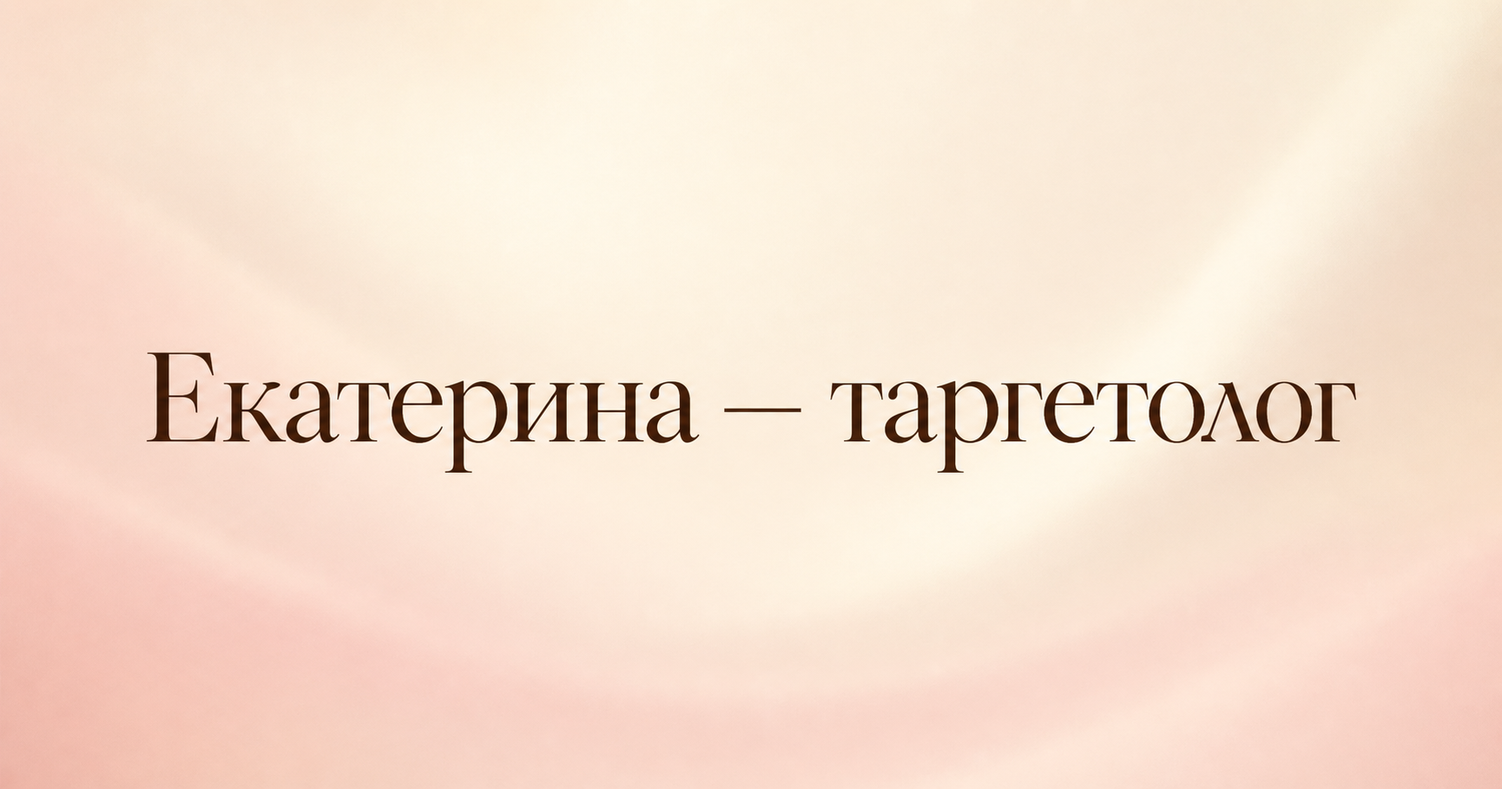
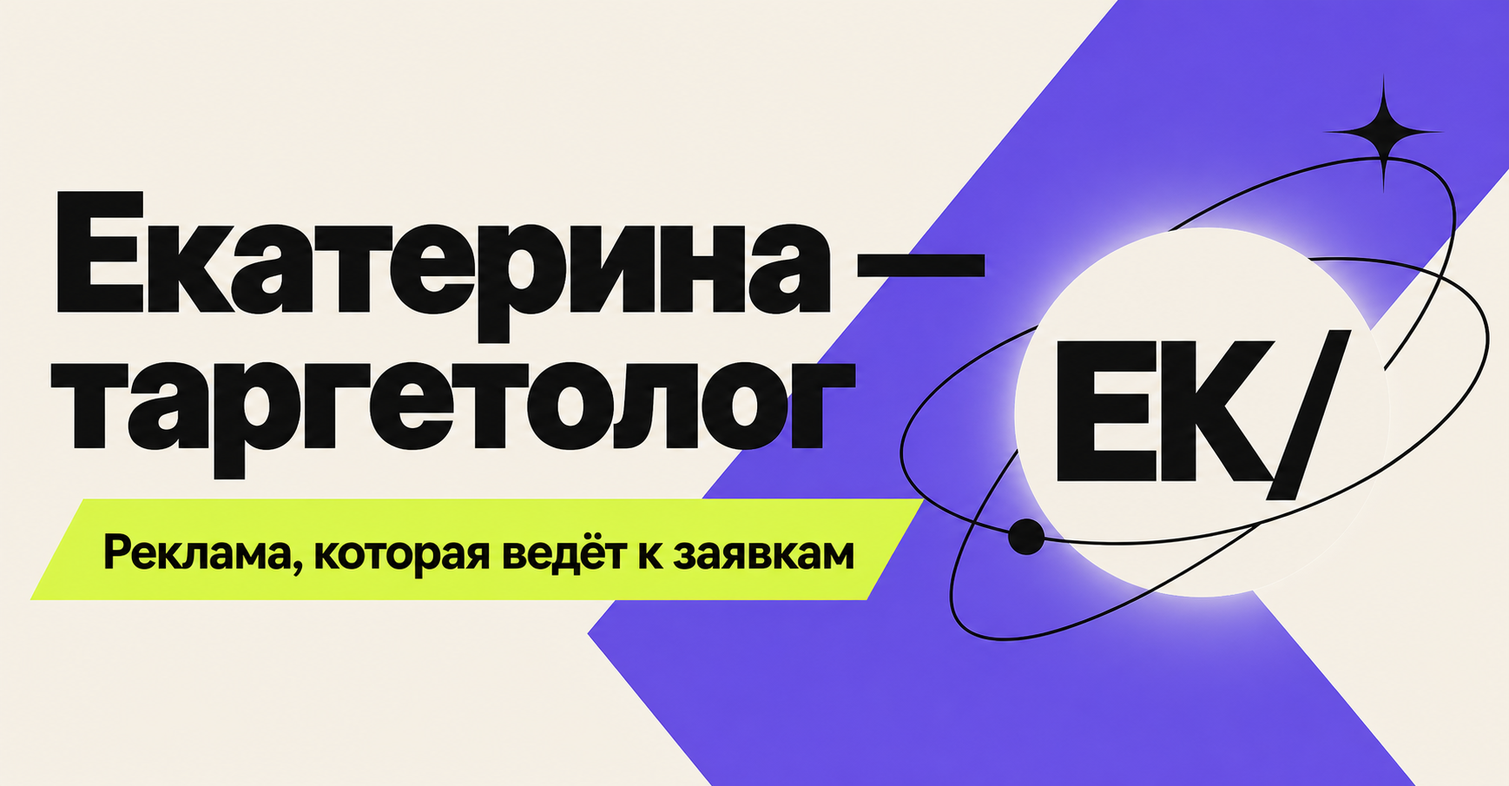
Design complete targetologist landing page

diff --git a/app/globals.css b/app/globals.css
@@ -1,55 +1,165 @@
 @import 'tailwindcss';
 
-:root {
-  color-scheme: light;
-  --background: #f7f1eb;
-  --foreground: #221c19;
+:root { --ink:#171718; --paper:#f4f0e8; --acid:#d8ff45; --violet:#6f42ff; --line:rgb(23 23 24 / 18%); }
+* { box-sizing:border-box; }
+html { scroll-behavior:smooth; }
+body { margin:0; background:var(--paper); color:var(--ink); font-family:Arial,Helvetica,sans-serif; }
+a { color:inherit; text-decoration:none; }
+.site-header { position:absolute; z-index:10; top:0; left:0; display:grid; width:100%; grid-template-columns:1fr auto 1fr; align-items:center; padding:1.4rem clamp(1.25rem,4vw,4.5rem); border-bottom:1px solid var(--line); }
+.brand { width:fit-content; font-size:1.25rem; font-weight:900; letter-spacing:-.08em; }
+.brand span { color:var(--violet); }
+.main-nav { display:flex; gap:2.1rem; }
+.main-nav a,.header-cta { font-size:.78rem; font-weight:700; }
+.main-nav a { transition:color .2s ease; }
+.main-nav a:hover { color:var(--violet); }
+.header-cta { justify-self:end; padding-bottom:.25rem; border-bottom:1px solid var(--ink); }
+.hero { position:relative; display:grid; min-height:100svh; grid-template-columns:minmax(0,1.45fr) minmax(19rem,.72fr); align-items:center; gap:clamp(2rem,6vw,7rem); overflow:hidden; padding:8.5rem clamp(1.25rem,4vw,4.5rem) 5rem; }
+.hero::before { position:absolute; inset:auto auto -18rem -14rem; width:34rem; height:34rem; border:1px solid var(--line); border-radius:50%; content:''; }
+.hero-copy { position:relative; z-index:1; }
+.eyebrow { display:flex; align-items:center; gap:.65rem; margin:0 0 2rem; font-size:.72rem; font-weight:800; letter-spacing:.13em; text-transform:uppercase; }
+.eyebrow span { width:.58rem; height:.58rem; border-radius:50%; background:var(--violet); box-shadow:0 0 0 4px rgb(111 66 255 / 12%); }
+h1 { margin:0; max-width:11ch; font-size:clamp(3.7rem,7.4vw,8.5rem); font-weight:800; line-height:.88; letter-spacing:-.075em; }
+.accent-line { position:relative; display:block; width:fit-content; margin-top:.12em; padding:0 .1em .06em .02em; background:var(--acid); transform:rotate(-1deg); }
+.spark { position:absolute; top:-.35em; right:-.55em; color:var(--violet); font-size:.38em; transform:rotate(16deg); }
+.hero-text { max-width:34rem; margin:2.2rem 0 0; font-size:clamp(1rem,1.35vw,1.22rem); line-height:1.55; }
+.hero-actions { display:flex; align-items:center; gap:1.8rem; margin-top:2.1rem; }
+.button { display:inline-flex; align-items:center; justify-content:center; gap:1.7rem; min-height:3.55rem; padding:0 1.4rem; font-size:.82rem; font-weight:800; }
+.button-primary { background:var(--ink); color:#fff; transition:transform .2s ease,background .2s ease; }
+.button-primary:hover { background:var(--violet); transform:translateY(-2px); }
+.button-primary span { font-size:1.2rem; }
+.text-link { padding-bottom:.3rem; border-bottom:1px solid var(--ink); font-size:.82rem; font-weight:800; }
+.hero-card { position:relative; align-self:stretch; min-height:35rem; margin:2.5rem 0; overflow:hidden; background:var(--violet); color:#fff; }
+.hero-card::after { position:absolute; inset:1rem; border:1px solid rgb(255 255 255 / 32%); content:''; }
+.card-orbit { position:absolute; top:40%; left:50%; width:min(25vw,20rem); aspect-ratio:1; transform:translate(-50%,-50%); }
+.orbit { position:absolute; inset:0; border:1px solid rgb(255 255 255 / 62%); border-radius:50%; }
+.orbit-one { transform:rotate(55deg) scaleX(.38); }
+.orbit-two { transform:rotate(-55deg) scaleX(.38); }
+.orbit-dot { position:absolute; top:8%; left:22%; width:.75rem; height:.75rem; border-radius:50%; background:var(--acid); }
+.orbit-mark { position:absolute; inset:50% auto auto 50%; font-size:3.7rem; font-weight:900; letter-spacing:-.1em; transform:translate(-50%,-50%); }
+.card-caption { position:absolute; z-index:2; right:2.25rem; bottom:2.35rem; left:2.25rem; }
+.card-caption p { margin:0 0 1rem; font-size:.62rem; font-weight:800; letter-spacing:.08em; text-transform:uppercase; }
+.card-caption p span { color:var(--acid); }
+.card-caption strong { font-size:clamp(1.5rem,2.5vw,2.4rem); line-height:1.04; letter-spacing:-.045em; }
+.hero-footnote { position:absolute; right:calc(clamp(1.25rem,4vw,4.5rem) + min(31vw,25rem) + clamp(2rem,6vw,7rem)); bottom:2.1rem; display:flex; align-items:flex-start; gap:.9rem; font-size:.67rem; font-weight:700; line-height:1.35; text-transform:uppercase; }
+.hero-footnote span { color:var(--violet); }
+.hero-footnote p { margin:0; }
+
+.section { padding:clamp(5.5rem,9vw,9rem) clamp(1.25rem,4vw,4.5rem); }
+.section-label { margin:0; font-size:.69rem; font-weight:900; letter-spacing:.14em; text-transform:uppercase; }
+.section-label::before { margin-right:.55rem; color:var(--violet); content:'●'; font-size:.72em; }
+.section-label.light::before { color:var(--acid); }
+.marquee { overflow:hidden; padding:1rem 0; border-block:1px solid var(--ink); background:var(--acid); font-size:.72rem; font-weight:900; letter-spacing:.08em; text-transform:uppercase; white-space:nowrap; }
+.marquee div { width:max-content; animation:marquee 20s linear infinite; }
+.marquee span { margin:0 1.6rem; color:var(--violet); }
+@keyframes marquee { to { transform:translateX(-25%); } }
+
+.section-heading { display:grid; grid-template-columns:.55fr 1.45fr .75fr; gap:3rem; align-items:end; margin-bottom:5rem; }
+.section-heading h2,.process h2,.principles h2,.fit h2,.faq h2,.contact h2 { margin:0; font-size:clamp(3rem,5.7vw,6.7rem); font-weight:800; line-height:.92; letter-spacing:-.065em; }
+.section-heading h2 em { color:var(--violet); font-family:Georgia,'Times New Roman',serif; font-weight:400; }
+.section-heading>p:last-child { max-width:24rem; margin:0; font-size:.95rem; line-height:1.55; }
+.service-list { border-top:1px solid var(--ink); }
+.service-row { display:grid; grid-template-columns:.25fr 1fr 1.15fr auto; gap:2rem; align-items:start; padding:2.25rem 0; border-bottom:1px solid var(--ink); }
+.service-number { padding-top:.3rem; color:var(--violet); font-size:.68rem; font-weight:900; }
+.service-row h3 { max-width:15ch; margin:0; font-size:clamp(1.5rem,2.3vw,2.45rem); line-height:1.02; letter-spacing:-.045em; }
+.service-detail p { max-width:33rem; margin:0 0 1.3rem; font-size:.92rem; line-height:1.55; }
+.tags { display:flex; flex-wrap:wrap; gap:.45rem; }
+.tags span { padding:.42rem .7rem; border:1px solid var(--line); border-radius:99px; font-size:.6rem; font-weight:800; text-transform:uppercase; }
+.service-arrow { font-size:1.5rem; transition:transform .2s ease,color .2s ease; }
+.service-row:hover .service-arrow { color:var(--violet); transform:translate(3px,-3px); }
+
+.process { display:grid; grid-template-columns:1.1fr .9fr; gap:5rem; background:var(--ink); color:#fff; }
+.process-intro>p:last-child { max-width:35rem; margin:2rem 0 0; color:rgb(255 255 255 / 68%); font-size:1rem; line-height:1.6; }
+.process h2 { margin-top:2.6rem; }
+.process h2 span { color:var(--acid); }
+.data-card { position:relative; align-self:start; min-height:27rem; padding:2rem; border:1px solid rgb(255 255 255 / 18%); background:#202022; }
+.data-top { display:flex; justify-content:space-between; align-items:start; }
+.data-top span { color:rgb(255 255 255 / 58%); font-size:.65rem; font-weight:800; text-transform:uppercase; }
+.data-top strong { color:var(--acid); font-size:2.5rem; letter-spacing:-.07em; }
+.chart { position:absolute; inset:7rem 2rem 3.8rem; display:flex; align-items:end; gap:clamp(.55rem,1.4vw,1.25rem); border-bottom:1px solid rgb(255 255 255 / 25%); background:repeating-linear-gradient(to bottom,transparent 0,transparent calc(33.3% - 1px),rgb(255 255 255 / 8%) 33.3%); }
+.chart i { flex:1; min-height:.5rem; background:var(--violet); }
+.chart i:nth-child(6),.chart i:nth-child(7) { background:var(--acid); }
+.data-bottom { position:absolute; right:2rem; bottom:1.8rem; left:2rem; display:flex; justify-content:space-between; color:rgb(255 255 255 / 42%); font-size:.6rem; text-transform:uppercase; }
+.steps { grid-column:1/-1; display:grid; grid-template-columns:repeat(3,1fr); border-top:1px solid rgb(255 255 255 / 25%); }
+.step { display:flex; gap:1.5rem; padding:2rem 2.2rem 0 0; }
+.step+ .step { padding-left:2.2rem; border-left:1px solid rgb(255 255 255 / 25%); }
+.step>span { color:var(--acid); font-size:.65rem; font-weight:900; }
+.step h3 { margin:0 0 .8rem; font-size:1.35rem; letter-spacing:-.04em; }
+.step p { max-width:22rem; margin:0; color:rgb(255 255 255 / 62%); font-size:.86rem; line-height:1.55; }
+
+.principles { display:grid; grid-template-columns:.85fr 1.15fr; align-items:end; gap:7rem; }
+.principles h2 { margin-top:2.5rem; }
+.principles h2 span { color:var(--violet); }
+.principle-grid { display:grid; grid-template-columns:repeat(3,1fr); }
+.principle-grid article { min-height:15rem; padding:1.4rem; border-left:1px solid var(--line); }
+.principle-grid strong { display:block; color:var(--violet); font-size:clamp(4rem,7vw,7rem); line-height:.8; letter-spacing:-.08em; }
+.principle-grid p { margin:4.5rem 0 0; font-size:.7rem; font-weight:800; line-height:1.45; text-transform:uppercase; }
+
+.fit { display:grid; grid-template-columns:1fr 1fr; gap:7rem; background:var(--violet); color:#fff; }
+.fit-heading h2 { margin-top:2.5rem; }
+.fit-heading h2 span { color:var(--acid); }
+.fit ul { margin:0; padding:0; list-style:none; }
+.fit li { display:grid; grid-template-columns:3rem 1fr; gap:1rem; padding:1.8rem 0; border-bottom:1px solid rgb(255 255 255 / 28%); font-size:clamp(1rem,1.5vw,1.3rem); line-height:1.35; }
+.fit li:first-child { border-top:1px solid rgb(255 255 255 / 28%); }
+.fit li span { color:var(--acid); font-size:.65rem; font-weight:900; }
+
+.faq>.section-label { margin-bottom:3rem; }
+.faq-layout { display:grid; grid-template-columns:.7fr 1.3fr; gap:8rem; }
+.faq-list { border-top:1px solid var(--ink); }
+details { border-bottom:1px solid var(--ink); }
+summary { display:flex; justify-content:space-between; gap:2rem; padding:1.8rem 0; cursor:pointer; font-size:clamp(1rem,1.5vw,1.25rem); font-weight:800; list-style:none; }
+summary::-webkit-details-marker { display:none; }
+summary span { color:var(--violet); font-size:1.4rem; transition:transform .2s ease; }
+details[open] summary span { transform:rotate(45deg); }
+details p { max-width:39rem; margin:-.3rem 0 1.8rem; font-size:.9rem; line-height:1.6; }
+
+.contact { position:relative; overflow:hidden; background:var(--acid); }
+.contact .section-label { margin-bottom:2.6rem; }
+.contact h2 { max-width:12ch; font-size:clamp(3.5rem,7vw,8rem); }
+.contact h2 span { color:var(--violet); }
+.contact-text { max-width:32rem; margin:2.2rem 0; font-size:1rem; line-height:1.6; }
+.contact-button { display:flex; width:min(100%,32rem); justify-content:space-between; align-items:center; padding:1.2rem 1.35rem; background:var(--ink); color:#fff; font-size:.84rem; font-weight:900; transition:background .2s ease,transform .2s ease; }
+.contact-button:hover { background:var(--violet); transform:translateY(-2px); }
+.contact-button span { font-size:1.25rem; }
+.contact-star { position:absolute; right:5vw; bottom:-.18em; color:rgb(111 66 255 / 18%); font-size:clamp(14rem,30vw,32rem); line-height:1; transform:rotate(14deg); }
+footer { display:grid; grid-template-columns:1fr 1fr 1fr; align-items:end; padding:2.5rem clamp(1.25rem,4vw,4.5rem); background:var(--ink); color:#fff; }
+.footer-brand span { color:var(--acid); }
+footer p { margin:0; color:rgb(255 255 255 / 58%); font-size:.67rem; line-height:1.45; text-transform:uppercase; }
+footer>a:last-child { justify-self:end; font-size:.72rem; font-weight:800; }
+
+@media (prefers-reduced-motion:reduce) { html{scroll-behavior:auto}.marquee div{animation:none}*{transition:none!important} }
+@media (max-width:900px) { .main-nav{display:none}.site-header{grid-template-columns:1fr 1fr}.hero{grid-template-columns:1fr;padding-top:8.5rem}.hero-card{min-height:28rem;margin:0}.card-orbit{width:17rem}.hero-footnote{display:none} }
+@media (max-width:560px) { .site-header{padding-block:1.15rem}.header-cta{font-size:.7rem}.hero{gap:3.5rem;padding-bottom:1.25rem}h1{font-size:clamp(3.45rem,16vw,5rem)}.hero-text{max-width:29rem}.hero-actions{align-items:flex-start;flex-direction:column;gap:1.2rem}.button{width:100%}.hero-card{min-height:26rem}.card-caption{right:2rem;left:2rem} }
+
+@media (max-width:900px) {
+  .section-heading,.process,.principles,.fit,.faq-layout { grid-template-columns:1fr; }
+  .section-heading { gap:1.8rem; margin-bottom:3.5rem; }
+  .service-row { grid-template-columns:.18fr 1fr auto; }
+  .service-detail { grid-column:2/3; }
+  .service-arrow { grid-column:3; grid-row:1; }
+  .process,.principles,.fit,.faq-layout { gap:4rem; }
+  .steps { grid-template-columns:1fr; }
+  .step { padding:1.8rem 0; border-bottom:1px solid rgb(255 255 255 / 25%); }
+  .step+ .step { padding-left:0; border-left:0; }
+  .principle-grid article { min-height:12rem; }
+  .principle-grid p { margin-top:3rem; }
 }
 
-* {
-  box-sizing: border-box;
-}
-
-html,
-body {
-  min-height: 100%;
-  margin: 0;
-}
-
-body {
-  background:
-    radial-gradient(circle at 20% 18%, rgb(255 255 255 / 78%), transparent 34%),
-    radial-gradient(circle at 82% 76%, rgb(226 203 190 / 34%), transparent 36%),
-    var(--background);
-  color: var(--foreground);
-  font-family: Georgia, 'Times New Roman', serif;
-}
-
-.hero {
-  display: grid;
-  min-height: 100svh;
-  place-items: center;
-  padding: 2rem;
-  text-align: center;
-}
-
-.hero h1 {
-  margin: 0;
-  max-width: 16ch;
-  font-size: clamp(3rem, 8vw, 7.5rem);
-  font-weight: 500;
-  line-height: 0.96;
-  letter-spacing: -0.055em;
-  text-wrap: balance;
-}
-
-@media (max-width: 520px) {
-  .hero {
-    padding: 1.25rem;
-  }
-
-  .hero h1 {
-    font-size: clamp(2.7rem, 14vw, 4rem);
-    line-height: 1;
-  }
+@media (max-width:560px) {
+  .section { padding-block:5rem; }
+  .section-heading h2,.process h2,.principles h2,.fit h2,.faq h2 { font-size:clamp(2.8rem,14vw,4.4rem); }
+  .service-row { grid-template-columns:2.2rem 1fr auto; gap:1rem; }
+  .service-detail { grid-column:1/-1; padding-left:3.2rem; }
+  .process { gap:3.4rem; }
+  .data-card { min-height:22rem; padding:1.4rem; }
+  .chart { inset:6.5rem 1.4rem 3.8rem; gap:.55rem; }
+  .data-bottom { right:1.4rem; left:1.4rem; }
+  .principle-grid { grid-template-columns:1fr; }
+  .principle-grid article { display:grid; min-height:auto; grid-template-columns:.5fr 1fr; align-items:end; padding:1.4rem 0; border-top:1px solid var(--line); border-left:0; }
+  .principle-grid p { margin:0; }
+  .fit li { grid-template-columns:2rem 1fr; }
+  .faq-layout { gap:2.5rem; }
+  .contact h2 { font-size:clamp(3.4rem,16vw,5.2rem); }
+  .contact-star { right:-15vw; }
+  footer { grid-template-columns:1fr auto; gap:2rem; }
+  footer p { display:none; }
 }

diff --git a/app/page.tsx b/app/page.tsx
@@ -1,7 +1,149 @@
+const services = [
+  {
+    number: '01',
+    title: 'Запуск рекламы с нуля',
+    text: 'Изучаю продукт и аудиторию, собираю стратегию, готовлю креативы и запускаю первые гипотезы.',
+    tags: ['Стратегия', 'Креативы', 'Запуск'],
+  },
+  {
+    number: '02',
+    title: 'Ведение и оптимизация',
+    text: 'Слежу за рекламой каждый день, отключаю лишнее и перенаправляю бюджет туда, где есть результат.',
+    tags: ['Аналитика', 'A/B-тесты', 'Отчёт'],
+  },
+  {
+    number: '03',
+    title: 'Аудит рекламного кабинета',
+    text: 'Нахожу точки потери бюджета и даю конкретный план: что исправить сейчас, а что тестировать дальше.',
+    tags: ['Диагностика', 'Рекомендации', 'План'],
+  },
+];
+
+const steps = [
+  ['Знакомимся', 'Обсуждаем продукт, цели, аудиторию и то, что уже пробовали.'],
+  ['Собираем систему', 'Формулирую гипотезы, выстраиваю аналитику и готовлю запуск.'],
+  ['Улучшаем', 'Смотрю на цифры, масштабирую рабочее и объясняю каждый следующий шаг.'],
+];
+
 export default function Home() {
   return (
-    <main className="hero">
-      <h1>Екатерина - таргетолог</h1>
+    <main>
+      <header className="site-header">
+        <a className="brand" href="#top" aria-label="Екатерина — на главную">ЕК<span>/</span></a>
+        <nav className="main-nav" aria-label="Основная навигация">
+          <a href="#services">Услуги</a><a href="#process">Подход</a><a href="#contact">Контакты</a>
+        </nav>
+        <a className="header-cta" href="#contact">Обсудить проект <span aria-hidden="true">↗</span></a>
+      </header>
+
+      <section className="hero" id="top">
+        <div className="hero-copy">
+          <p className="eyebrow"><span /> Таргетолог для малого бизнеса</p>
+          <h1>Реклама, которая<span className="accent-line">ведёт к заявкам<span className="spark">✦</span></span></h1>
+          <p className="hero-text">Я Екатерина. Помогаю бизнесу находить своих людей в соцсетях — от первой гипотезы до понятной системы привлечения клиентов.</p>
+          <div className="hero-actions">
+            <a className="button button-primary" href="#contact">Начать с консультации <span aria-hidden="true">→</span></a>
+            <a className="text-link" href="#services">Посмотреть услуги</a>
+          </div>
+        </div>
+        <aside className="hero-card" aria-label="Принципы работы">
+          <div className="card-orbit" aria-hidden="true"><span className="orbit orbit-one" /><span className="orbit orbit-two" /><span className="orbit-dot" /><span className="orbit-mark">ЕК</span></div>
+          <div className="card-caption"><p>Стратегия <span>•</span> Аналитика <span>•</span> Креатив</p><strong>Точно в цель,<br />без лишнего шума.</strong></div>
+        </aside>
+        <div className="hero-footnote"><span>01</span><p>Вникаю в продукт<br />и говорю на языке цифр</p></div>
+      </section>
+
+      <div className="marquee" aria-label="Основные направления">
+        <div>Анализ аудитории <span>✦</span> Рекламные кампании <span>✦</span> Креативы <span>✦</span> Оптимизация бюджета <span>✦</span></div>
+      </div>
+
+      <section className="services section" id="services">
+        <div className="section-heading">
+          <p className="section-label">Что я делаю</p>
+          <h2>Не просто настраиваю.<br /><em>Выстраиваю путь</em> к клиенту.</h2>
+          <p>Работаю точечно или беру рекламу под ключ — в зависимости от задачи и этапа бизнеса.</p>
+        </div>
+        <div className="service-list">
+          {services.map((service) => (
+            <article className="service-row" key={service.number}>
+              <span className="service-number">{service.number}</span>
+              <h3>{service.title}</h3>
+              <div className="service-detail">
+                <p>{service.text}</p>
+                <div className="tags">{service.tags.map((tag) => <span key={tag}>{tag}</span>)}</div>
+              </div>
+              <span className="service-arrow" aria-hidden="true">↗</span>
+            </article>
+          ))}
+        </div>
+      </section>
+
+      <section className="process section" id="process">
+        <div className="process-intro">
+          <p className="section-label light">Мой подход</p>
+          <h2>Чутьё — хорошо.<br /><span>Данные — лучше.</span></h2>
+          <p>За каждым решением стоит гипотеза, а за каждой гипотезой — цифры. Поэтому вы всегда понимаете, куда уходит бюджет и что он приносит.</p>
+        </div>
+        <div className="data-card" aria-label="Схема роста рекламных показателей">
+          <div className="data-top"><span>Динамика кампании</span><strong>+38%</strong></div>
+          <div className="chart" aria-hidden="true">
+            <i style={{height:'24%'}} /><i style={{height:'36%'}} /><i style={{height:'32%'}} /><i style={{height:'52%'}} /><i style={{height:'48%'}} /><i style={{height:'68%'}} /><i style={{height:'83%'}} />
+          </div>
+          <div className="data-bottom"><span>Тест</span><span>Анализ</span><span>Рост</span></div>
+        </div>
+        <div className="steps">
+          {steps.map((step, index) => (
+            <article className="step" key={step[0]}><span>0{index + 1}</span><div><h3>{step[0]}</h3><p>{step[1]}</p></div></article>
+          ))}
+        </div>
+      </section>
+
+      <section className="principles section" aria-labelledby="principles-title">
+        <div>
+          <p className="section-label">В работе</p>
+          <h2 id="principles-title">Прозрачно.<br />Спокойно.<br /><span>По делу.</span></h2>
+        </div>
+        <div className="principle-grid">
+          <article><strong>3</strong><p>уровня анализа:<br />аудитория, креатив, воронка</p></article>
+          <article><strong>1</strong><p>понятный отчёт<br />без сложных таблиц</p></article>
+          <article><strong>0</strong><p>решений наугад<br />и туманных обещаний</p></article>
+        </div>
+      </section>
+
+      <section className="fit section">
+        <div className="fit-heading"><p className="section-label light">Мы сработаемся, если</p><h2>Вам нужен не «трафик»,<br />а <span>понятный результат.</span></h2></div>
+        <ul>
+          <li><span>01</span>Вы готовы тестировать гипотезы, а не ждать волшебную кнопку</li>
+          <li><span>02</span>Цените честный диалог и хотите понимать логику решений</li>
+          <li><span>03</span>Ищете специалиста, который погрузится в продукт</li>
+        </ul>
+      </section>
+
+      <section className="faq section" aria-labelledby="faq-title">
+        <p className="section-label">Коротко о важном</p>
+        <div className="faq-layout">
+          <h2 id="faq-title">Вопросы<br />до старта</h2>
+          <div className="faq-list">
+            <details><summary>С каким бюджетом можно начинать?<span>+</span></summary><p>Бюджет зависит от ниши, географии и цели. На первой встрече оценим задачу и определим реалистичный объём теста.</p></details>
+            <details><summary>Когда ждать первые результаты?<span>+</span></summary><p>Первые данные появляются сразу после запуска, но для выводов нужен тестовый период. Я заранее обозначу контрольные точки и критерии оценки.</p></details>
+            <details><summary>Что понадобится от меня?<span>+</span></summary><p>Информация о продукте, доступы к рекламным площадкам и время на короткое интервью. Остальной процесс беру на себя.</p></details>
+          </div>
+        </div>
+      </section>
+
+      <section className="contact section" id="contact">
+        <div className="contact-star" aria-hidden="true">✦</div>
+        <p className="section-label">Начнём?</p>
+        <h2>Расскажите о задаче.<br /><span>Я предложу следующий шаг.</span></h2>
+        <p className="contact-text">Коротко опишите проект и цель — обсудим, чем я могу быть полезна и какой формат подойдёт лучше.</p>
+        <a className="contact-button" href="mailto:?subject=Заявка%20с%20сайта%20Екатерины">Написать Екатерине <span aria-hidden="true">↗</span></a>
+      </section>
+
+      <footer>
+        <a className="brand footer-brand" href="#top">ЕК<span>/</span></a>
+        <p>Таргетированная реклама<br />для бизнеса</p>
+        <a href="#top">Наверх ↑</a>
+      </footer>
     </main>
   );
 }

diff --git a/app/layout.tsx b/app/layout.tsx
@@ -3,19 +3,19 @@ import './globals.css';
 
 export const metadata: Metadata = {
   metadataBase: new URL('http://83.166.247.193'),
-  title: 'Екатерина - таргетолог',
-  description: 'Персональная страница Екатерины, специалиста по таргетированной рекламе.',
+  title: 'Екатерина — таргетолог для малого бизнеса',
+  description: 'Запуск, ведение и аудит таргетированной рекламы. Стратегия, креативы и аналитика с понятным результатом.',
   openGraph: {
-    title: 'Екатерина - таргетолог',
-    description: 'Персональная страница Екатерины, специалиста по таргетированной рекламе.',
+    title: 'Екатерина — таргетолог для малого бизнеса',
+    description: 'Реклама, которая ведёт к заявкам: от первой гипотезы до понятной системы привлечения клиентов.',
     images: ['/og.png'],
     locale: 'ru_RU',
     type: 'website',
   },
   twitter: {
     card: 'summary_large_image',
-    title: 'Екатерина - таргетолог',
-    description: 'Персональная страница Екатерины, специалиста по таргетированной рекламе.',
+    title: 'Екатерина — таргетолог для малого бизнеса',
+    description: 'Реклама, которая ведёт к заявкам: от первой гипотезы до понятной системы привлечения клиентов.',
     images: ['/og.png'],
   },
 };
